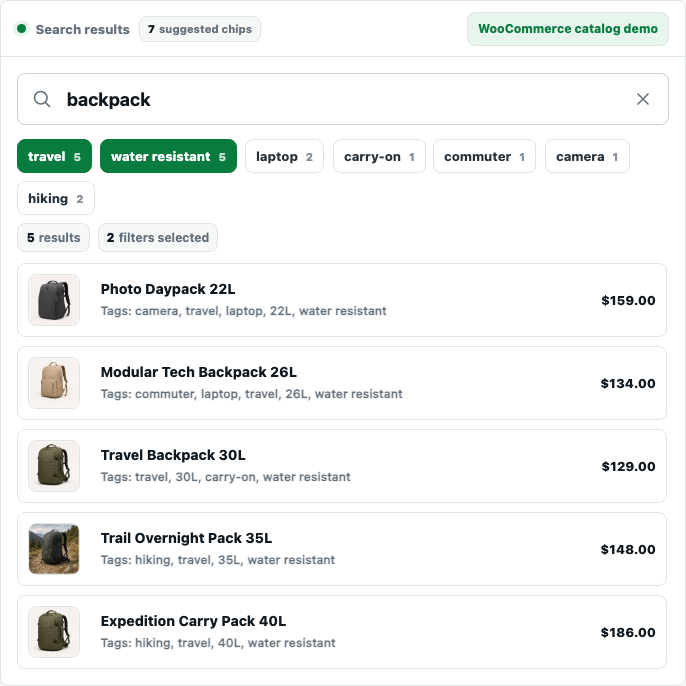
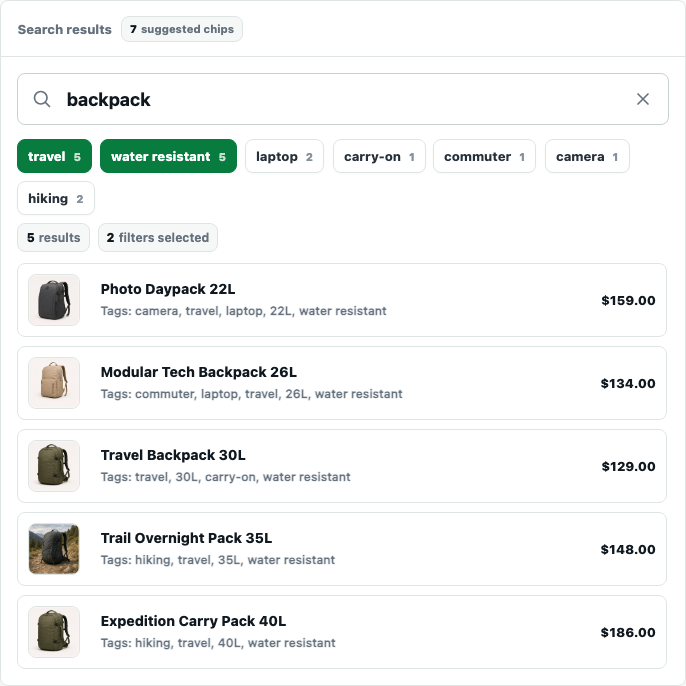
Refresh WordPress.org analytics screenshots

Changed region(s): [[0.0306, 0.0306, 0.3673, 0.0612], [0.6735, 0.0306, 0.9796, 0.0612]]

diff --git a/marketing/launch-site/styles.css b/marketing/launch-site/styles.css
@@ -349,21 +349,6 @@ code {
   color: var(--ink);
 }
 
-.preview-actions {
-  display: flex;
-  flex-wrap: wrap;
-  justify-content: flex-end;
-  gap: 8px;
-}
-
-.toolbar-dot {
-  width: 9px;
-  height: 9px;
-  border-radius: 50%;
-  background: var(--green);
-  box-shadow: 0 0 0 4px var(--green-soft);
-}
-
 .quiet-button {
   min-height: 34px;
   padding: 8px 10px;
@@ -381,19 +366,6 @@ code {
   border-color: var(--green);
   color: var(--green);
   transform: translateY(-1px);
-}
-
-.preview-badge {
-  display: inline-flex;
-  align-items: center;
-  min-height: 34px;
-  padding: 8px 10px;
-  border: 1px solid var(--line);
-  border-radius: var(--radius);
-  color: var(--green);
-  background: var(--green-soft);
-  font-size: 12px;
-  font-weight: 820;
 }
 
 .search-preview {
@@ -791,19 +763,6 @@ code {
   font-weight: 780;
   text-overflow: ellipsis;
   white-space: nowrap;
-}
-
-.result-chip-count {
-  flex: 0 0 auto;
-  min-height: 23px;
-  padding: 5px 7px;
-  border: 1px solid var(--line);
-  border-radius: var(--radius);
-  color: var(--green);
-  background: var(--green-soft);
-  font-size: 11px;
-  line-height: 1;
-  font-weight: 820;
 }
 
 .result-row p {

diff --git a/marketing/launch-site/app.js b/marketing/launch-site/app.js
@@ -160,10 +160,6 @@
     requestAnimationFrame(tick);
   }
 
-  function chipLabel(count) {
-    return count === 1 ? "1 chip" : `${count} chips`;
-  }
-
   function volumeOf(result) {
     return Number(result[5]) || 0;
   }
@@ -299,7 +295,6 @@
         <div>
           <div class="result-title-line">
             <strong>No preview results</strong>
-            <span class="result-chip-count">0 chips</span>
           </div>
           <p>Try backpack, travel, laptop, commuter, camera, hiking, or widen the volume range.</p>
         </div>
@@ -319,7 +314,6 @@
         <div>
           <div class="result-title-line">
             <strong>${title}</strong>
-            <span class="result-chip-count">${chipLabel((tags || []).length)}</span>
           </div>
           <p>${detail}</p>
         </div>

diff --git a/marketing/launch-site/index.html b/marketing/launch-site/index.html
@@ -61,15 +61,11 @@
         <div class="product-shell reveal" aria-label="Interactive Smart Search Chips product preview">
           <div class="preview-toolbar">
             <div class="preview-title">
-              <span class="toolbar-dot"></span>
               Search results
               <span class="suggestion-count">
                 <strong id="suggestion-count">9</strong>
                 <span id="suggestion-label">suggested chips</span>
               </span>
-            </div>
-            <div class="preview-actions">
-              <span class="preview-badge">WooCommerce catalog demo</span>
             </div>
           </div>
 
